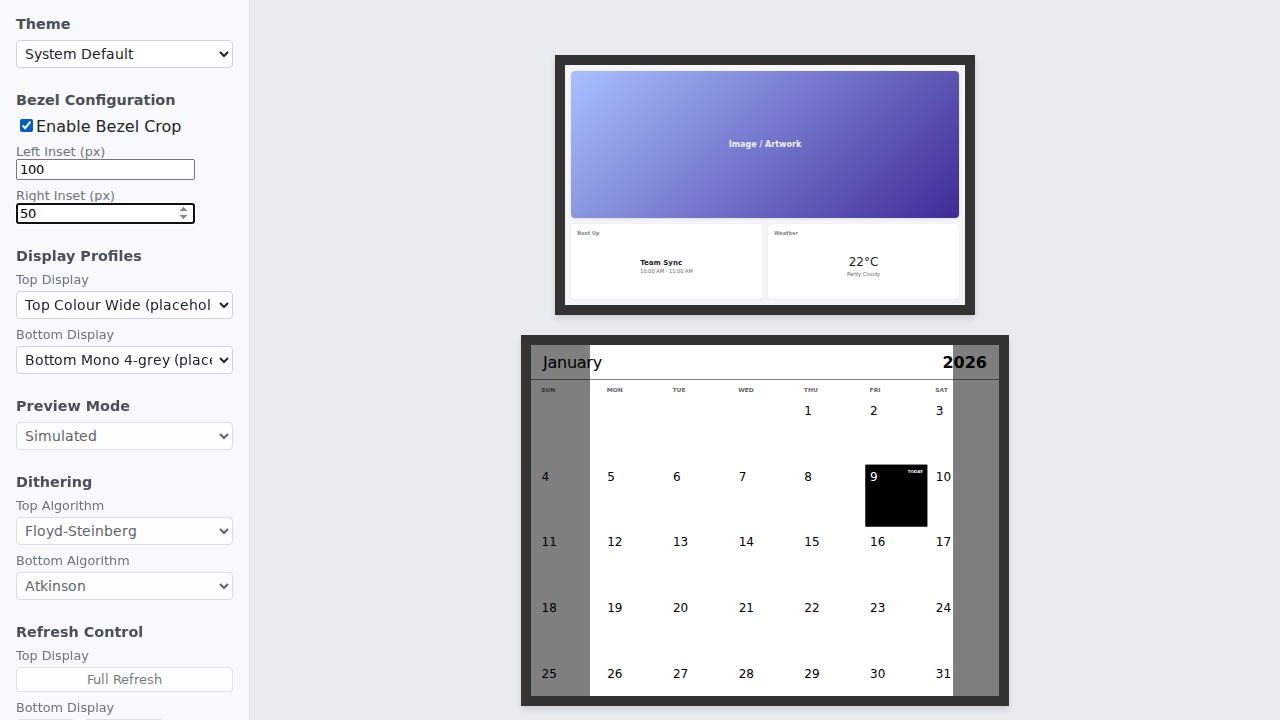
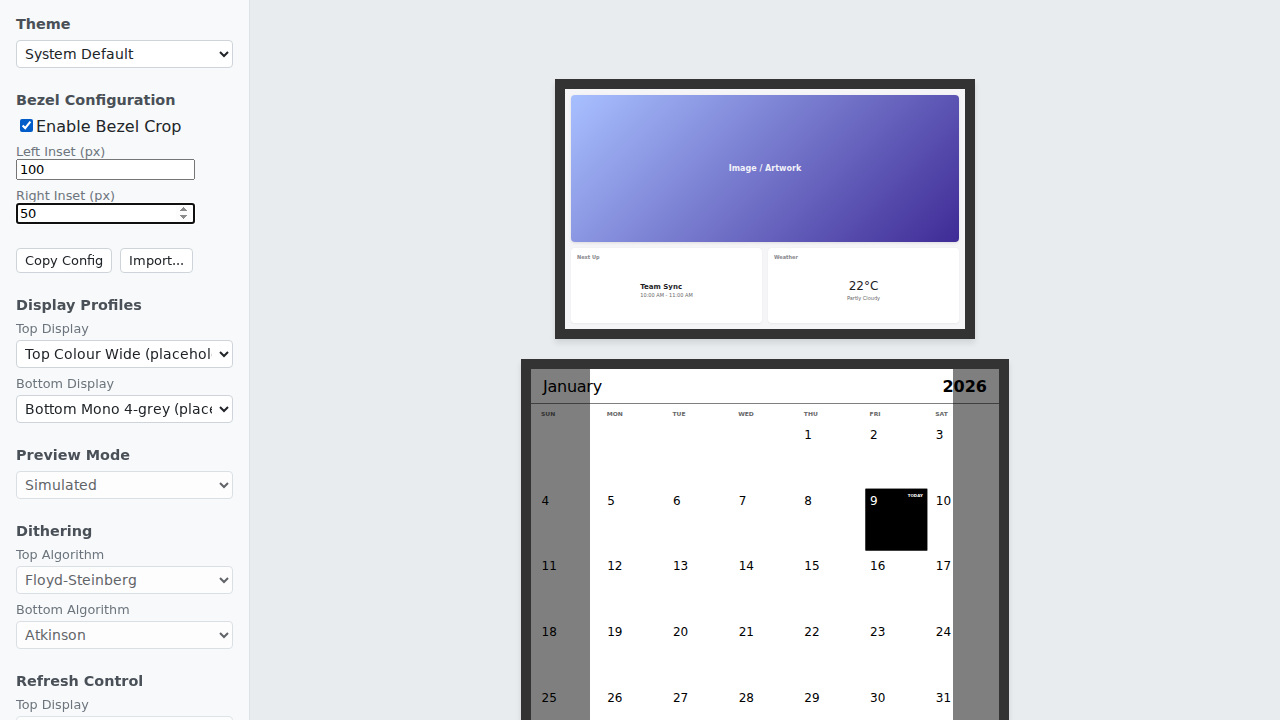
Add Import/Export features for DeviceConfig
Added buttons to the simulator's configuration panel to copy the current device configuration to the clipboard and import a JSON configuration, facilitating easier setup sharing.

diff --git a/apps/simulator-web/src/components/ConfigPanel/ConfigPanel.tsx b/apps/simulator-web/src/components/ConfigPanel/ConfigPanel.tsx
@@ -32,6 +32,9 @@ export const ConfigPanel: React.FC<ConfigPanelProps> = ({
 	deviceConfig,
 	onDeviceConfigChange,
 }) => {
+	const [showImport, setShowImport] = React.useState(false);
+	const [importValue, setImportValue] = React.useState('');
+
 	const handleBottomSurfaceConfigChange = (key: 'cropLeft' | 'cropRight', value: number) => {
 		onDeviceConfigChange({
 			...deviceConfig,
@@ -40,6 +43,24 @@ export const ConfigPanel: React.FC<ConfigPanelProps> = ({
 				[key]: value,
 			},
 		});
+	};
+
+	const handleExport = () => {
+		const json = JSON.stringify(deviceConfig, null, 2);
+		navigator.clipboard.writeText(json).then(() => {
+			alert('Configuration copied to clipboard!');
+		});
+	};
+
+	const handleImport = () => {
+		try {
+			const config = JSON.parse(importValue);
+			onDeviceConfigChange(config);
+			setShowImport(false);
+			setImportValue('');
+		} catch {
+			alert('Invalid JSON configuration');
+		}
 	};
 
 	return (
@@ -99,6 +120,32 @@ export const ConfigPanel: React.FC<ConfigPanelProps> = ({
 								/>
 							</label>
 						</div>
+						<div className={styles.buttonGroup} style={{ marginTop: '1rem' }}>
+							<button className={styles.button} onClick={handleExport}>
+								Copy Config
+							</button>
+							<button className={styles.button} onClick={() => setShowImport(!showImport)}>
+								Import...
+							</button>
+						</div>
+						{showImport && (
+							<div style={{ marginTop: '0.5rem' }}>
+								<textarea
+									className={styles.input}
+									style={{ width: '100%', height: '100px', fontFamily: 'monospace' }}
+									value={importValue}
+									onChange={(e) => setImportValue(e.target.value)}
+									placeholder="Paste JSON config here..."
+								/>
+								<button
+									className={styles.button}
+									style={{ marginTop: '0.5rem', width: '100%' }}
+									onClick={handleImport}
+								>
+									Apply
+								</button>
+							</div>
+						)}
 					</>
 				)}
 			</div>
